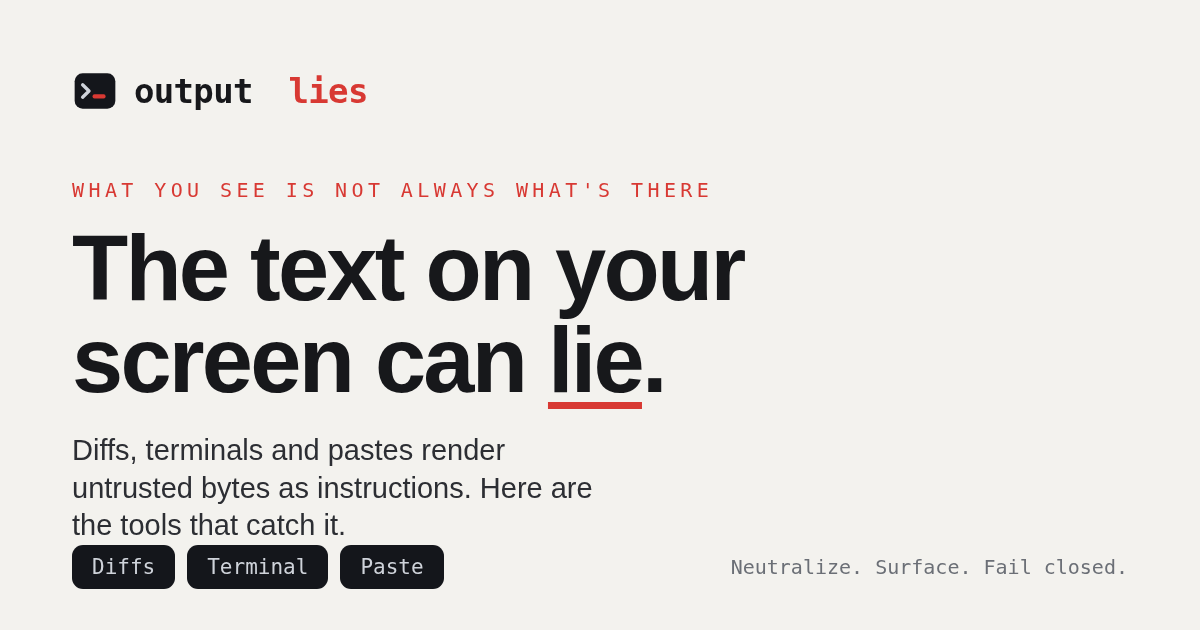
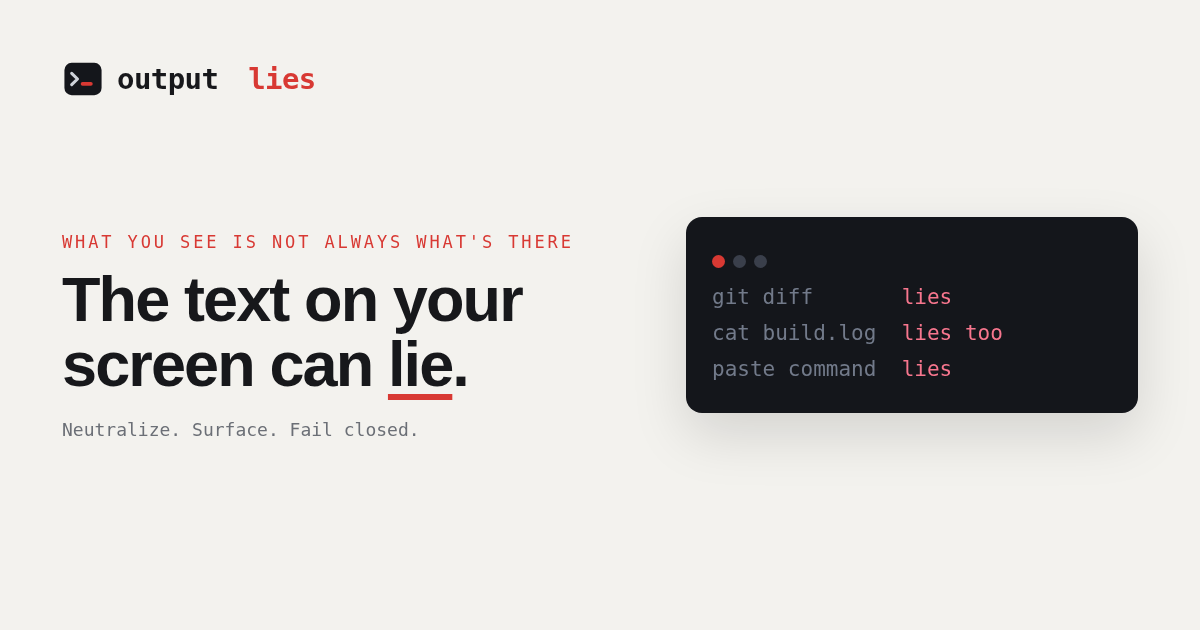
og: per-page branded og:images (hub / terminal / paste cards) + per-page alt text; idiomatic inline-code chips

diff --git a/paste/index.html b/paste/index.html
@@ -16,14 +16,14 @@
 <meta property="og:title" content="paste lies: what you copy is not what you paste">
 <meta property="og:description" content="A command copied from a web page can carry hidden lines and invisible characters your eyes never saw, and a trailing newline runs them on paste. See it safely, and learn the safe-copy workflow.">
 <meta property="og:url" content="https://org-ai-assisted.github.io/paste/">
-<meta property="og:image" content="https://org-ai-assisted.github.io/og.png">
+<meta property="og:image" content="https://org-ai-assisted.github.io/og-paste.png">
 <meta property="og:image:width" content="1200">
 <meta property="og:image:height" content="630">
-<meta property="og:image:alt" content="output lies: what you see is not always what's there">
+<meta property="og:image:alt" content="paste lies: what you copy is not what you paste">
 <meta name="twitter:card" content="summary_large_image">
 <meta name="twitter:title" content="paste lies: what you copy is not what you paste">
 <meta name="twitter:description" content="A command copied from a web page can carry hidden lines and invisible characters your eyes never saw, and a trailing newline runs them on paste. See it safely, and learn the safe-copy workflow.">
-<meta name="twitter:image" content="https://org-ai-assisted.github.io/og.png">
+<meta name="twitter:image" content="https://org-ai-assisted.github.io/og-paste.png">
 <meta name="theme-color" content="#f3f2ee">
 <link rel="stylesheet" href="/style.css">
 

diff --git a/tools/index.html b/tools/index.html
@@ -15,14 +15,14 @@
 <meta property="og:title" content="cat lies too: safe terminal text tools">
 <meta property="og:description" content="Raw bytes can hide text, forge your prompt, or disguise a character. unicode-show, stcat and sanitize-string show you what is really there.">
 <meta property="og:url" content="https://org-ai-assisted.github.io/tools/">
-<meta property="og:image" content="https://org-ai-assisted.github.io/og.png">
+<meta property="og:image" content="https://org-ai-assisted.github.io/og-tools.png">
 <meta property="og:image:width" content="1200">
 <meta property="og:image:height" content="630">
-<meta property="og:image:alt" content="output lies: what you see is not always what's there">
+<meta property="og:image:alt" content="cat lies too: safe terminal text tools">
 <meta name="twitter:card" content="summary_large_image">
 <meta name="twitter:title" content="cat lies too: safe terminal text tools">
 <meta name="twitter:description" content="Raw bytes can hide text, forge your prompt, or disguise a character. unicode-show, stcat and sanitize-string show you what is really there.">
-<meta name="twitter:image" content="https://org-ai-assisted.github.io/og.png">
+<meta name="twitter:image" content="https://org-ai-assisted.github.io/og-tools.png">
 <meta name="theme-color" content="#f3f2ee">
 <link rel="stylesheet" href="/style.css">
 

diff --git a/style.css b/style.css
@@ -261,3 +261,8 @@ footer .fbot{padding-left:20px;padding-right:20px}
 @media(max-width:640px){ footer .fcols{display:grid;grid-template-columns:1fr 1fr;gap:20px 22px} }
 
 .backdoor a{color:var(--accent)}
+
+/* idiomatic inline code: a subtle chip (copybox .cmd + .term panes keep their own dark styling) */
+code{font-family:var(--mono);font-size:.88em;background:rgba(23,24,27,.06);
+  padding:.11em .4em;border-radius:5px}
+.copybox .cmd{font-size:.82rem;padding:11px 13px;border-radius:0}